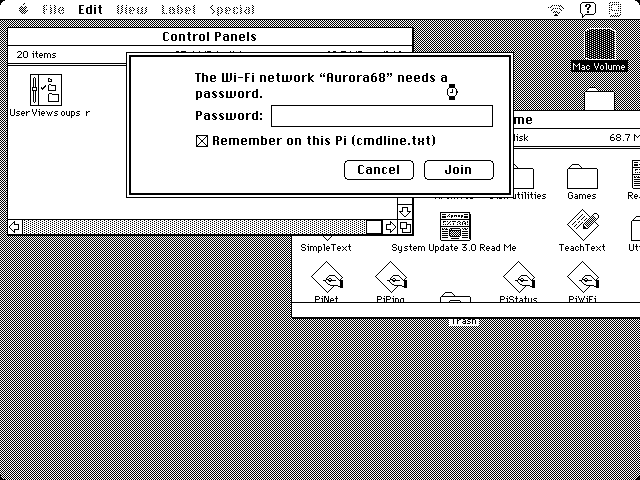
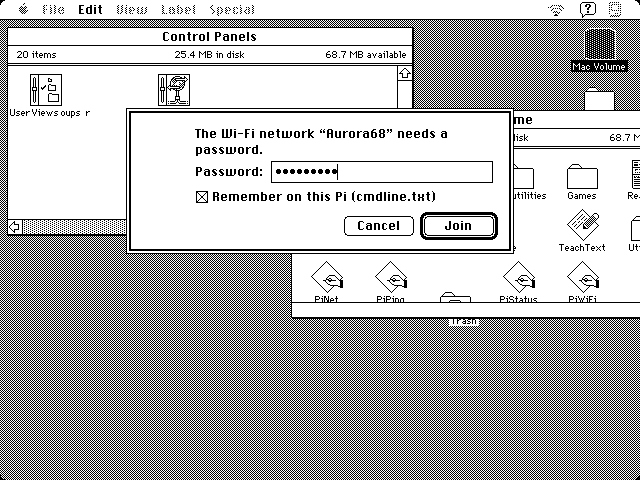
WiFi menu: hangs from the menu bar; the password dialog as the 1992 guidelines say
The pop-up's first item now sits two rows under the bar (one row made
the MDEF push the whole menu down an item). The password dialog has the
default button's outline, Return/Enter and Escape/Command-period with
the buttons flashing, and bullets in place of the password (a
ModalDialog filter keeps the text). tools/pinet.py: PINET_FORWARD and
PINET_MDNS_RELAY relay TCP and mDNS to servers on the host (Lagoon's
tests against Samba).

Changed region(s): [[0.1875, 0.0938, 0.8125, 0.5312]]

diff --git a/tools/pinet.py b/tools/pinet.py
@@ -16,6 +16,15 @@ replies to .rx. Two modes:
                             PINET_MDNS=NAME: every ten seconds an mDNS query for NAME.local
                             (224.0.0.251:5353, from the Mac's own subnet so the responder does
                             not ignore it as off-link); answers are logged as "mDNS answer".
+                            PINET_FORWARD="445=127.0.0.1:4450,548=127.0.0.1:5480": TCP to those
+                            ports of the peer is relayed to the host addresses (the Mac's file
+                            clients, Lagoon, reach servers on the host: Samba, Netatalk), in
+                            order, within the Mac's receive window; the testbed loses nothing,
+                            so nothing is sent again.
+                            PINET_MDNS_RELAY=127.0.0.1:PORT: the Mac's mDNS queries (224.0.0.251:5353)
+                            go to that responder on the host (Lagoon's tests/servers/mdns/
+                            responder.py --addr 192.168.68.1) and its answers come back to the Mac
+                            from the peer, as a legacy unicast answer (RFC 6762 6.7).
   pinet.py <base> tap tapN  bridge frames to a Linux TAP device (needs CAP_NET_ADMIN)
 
 Usage in the testbed: tools/run-fullstack.sh 400 mac.net=/tmp/psmac-net   (and run this helper).
@@ -86,11 +95,35 @@ def mdns_due():
     send(bytes.fromhex('01005e0000fb') + PEER_MAC + b'\x08\x00' + bytes(ip) + udp)
     print(f"peer -> mDNS query {MDNS_NAME}.local from {'.'.join(map(str, src_ip))}", flush=True)
 
+MDNS_RELAY = None
+if os.environ.get('PINET_MDNS_RELAY'):
+    h, p_ = os.environ['PINET_MDNS_RELAY'].rsplit(':', 1)
+    MDNS_RELAY = (h, int(p_))
+def mdns_relay(src, sip, udp):
+    sport = struct.unpack('>H', udp[0:2])[0]
+    q = udp[8:]
+    if len(q) < 12 or q[2] & 0x80:
+        return None                                  # an answer, not a query
+    s_ = socket.socket(socket.AF_INET, socket.SOCK_DGRAM); s_.settimeout(0.5)
+    try:
+        s_.sendto(q, MDNS_RELAY)
+        ans, _ = s_.recvfrom(9000)
+    except OSError:
+        return 'mDNS query: no answer from the relay'
+    finally:
+        s_.close()
+    out = struct.pack('>HHHH', 5353, sport, 8 + len(ans), 0) + ans
+    send4(src, sip, 17, out)
+    return f'mDNS query relayed: {len(ans)}-byte answer to port {sport}'
+
 def peer(frame):
     global mac_ip4
     dst, src, etype = frame[0:6], frame[6:12], struct.unpack('>H', frame[12:14])[0]
     if etype == 0x0800 and len(frame) >= 42 and frame[23] == 17 and frame[14 + (frame[14] & 15) * 4 + 2:14 + (frame[14] & 15) * 4 + 4] == b'\x14\xe9':
         if frame[26:30] != bytes(4): mac_ip4 = frame[26:30]
+        if MDNS_RELAY:
+            r = mdns_relay(src, frame[26:30], frame[14 + (frame[14] & 15) * 4:])
+            if r: return r
         return mdns_answer(src, frame[26:30], frame[14 + (frame[14] & 15) * 4:])
     if etype == 0x0800 and len(frame) >= 34 and frame[26:30] != bytes(4): mac_ip4 = frame[26:30]
     if etype == 0x0806 and len(frame) >= 42:                 # ARP
@@ -168,10 +201,91 @@ def tcp_seg(dstmac, dip, sport, dport, seq, ack, flags, data=b''):
     c = csum(pseudo + hdr + data)
     send4(dstmac, dip, 6, hdr[:16] + struct.pack('>H', c) + hdr[18:] + data)
 
+# TCP relay (PINET_FORWARD): one host socket per connection from the Mac
+FORWARD = {}
+for item in filter(None, os.environ.get('PINET_FORWARD', '').split(',')):
+    port, dest = item.split('=')
+    h, hp = dest.rsplit(':', 1)
+    FORWARD[int(port)] = (h, int(hp))
+relays = {}
+def relay_seg(r, flags, data=b''):
+    tcp_seg(r['mac'], r['ip'], r['lport'], r['rport'], r['snd'], r['rcv'], flags, data)
+def relay_tcp(frame, src, sip, t, sport, dport, seq, ack, flags, data, win):
+    key = (sip, sport, dport)
+    if flags & 0x02:                                               # SYN: connect to the host
+        try:
+            hs = socket.create_connection(FORWARD[dport], timeout=3)
+        except OSError as e:
+            tcp_seg(src, sip, dport, sport, 0, seq + 1, 0x14)
+            return f'TCP relay {dport}: host refused ({e})'
+        hs.setblocking(False)
+        relays[key] = {'sock': hs, 'mac': src, 'ip': sip, 'lport': dport, 'rport': sport, 'snd': 0x68100001,
+                       'una': 0x68100001, 'rcv': seq + 1, 'win': win, 'out': b'', 'fin_out': False, 'fin_sent': False}
+        tcp_seg(src, sip, dport, sport, 0x68100000, seq + 1, 0x12)
+        return f'TCP relay {dport} -> {FORWARD[dport][0]}:{FORWARD[dport][1]}: SYN-ACK'
+    r = relays.get(key)
+    if not r:
+        if not flags & 0x04:
+            tcp_seg(src, sip, dport, sport, 0, seq + 1, 0x14)
+        return 'TCP relay (no connection)'
+    if flags & 0x04:
+        r['sock'].close(); relays.pop(key, None); return 'TCP relay RST'
+    if flags & 0x10 and (ack - r['una']) & 0x80000000 == 0:
+        r['una'] = ack
+    r['win'] = win
+    what = 'TCP relay ack'
+    if data:
+        if seq == r['rcv']:
+            r['rcv'] += len(data)
+            try:
+                r['sock'].sendall(data)
+            except OSError:
+                pass
+            relay_seg(r, 0x10)
+            what = f'TCP relay {len(data)} bytes to the host'
+        else:
+            relay_seg(r, 0x10)                                     # out of order: ack what we have
+    if flags & 0x01 and seq + len(data) == r['rcv']:
+        r['rcv'] += 1
+        try:
+            r['sock'].shutdown(socket.SHUT_WR)
+        except OSError:
+            pass
+        relay_seg(r, 0x10)
+        what += ', FIN'
+    return what
+def relay_due():
+    for key, r in list(relays.items()):
+        if not r['fin_out']:
+            try:
+                d = r['sock'].recv(65536)
+                if d:
+                    r['out'] += d
+                else:
+                    r['fin_out'] = True
+            except BlockingIOError:
+                pass
+            except OSError:
+                r['fin_out'] = True
+        inflight = (r['snd'] - r['una']) & 0xffffffff
+        room = max(0, r['win'] - inflight)
+        while r['out'] and room > 0:
+            n = min(1400, room, len(r['out']))
+            relay_seg(r, 0x18, r['out'][:n])
+            r['snd'] += n; r['out'] = r['out'][n:]; room -= n
+        if r['fin_out'] and not r['out'] and not r['fin_sent']:
+            relay_seg(r, 0x11)
+            r['snd'] += 1; r['fin_sent'] = True
+        if r['fin_sent'] and r['una'] == r['snd'] and r['rcv'] and key in relays and r.get('closed_in'):
+            r['sock'].close(); relays.pop(key, None)
+
 def tcp_echo(frame, src, sip, t):
     sport, dport, seq, ack, off, flags = struct.unpack('>HHIIBB', t[:14])
     ip_total = struct.unpack('>H', frame[16:18])[0]
     data = t[(off >> 4) * 4:ip_total - 20]
+    if dport in FORWARD:
+        win = struct.unpack('>H', t[14:16])[0]
+        return relay_tcp(frame, src, sip, t, sport, dport, seq, ack, flags, data, win)
     if dport != 7:
         if not flags & 0x04:
             tcp_seg(src, sip, dport, sport, 0, seq + 1, 0x14)      # RST|ACK
@@ -311,6 +425,7 @@ while True:
     if tap is None:
         ping6_due()
         mdns_due()
+        relay_due()
     if tap is not None:
         try:
             while True:

diff --git a/mac/wifimenu/wifimenu.c b/mac/wifimenu/wifimenu.c
@@ -231,6 +231,64 @@ static void put_item(unsigned char **p, short t, short l, short b, short r, unsi
 	if (n & 1) *q++ = 0;
 	*p = q;
 }
+/* The 1992 Human Interface Guidelines: the default button (Join) has the heavy rounded outline and
+   answers Return and Enter, Cancel answers Escape and Command-period, both buttons flash when
+   their key is used, and a password is shown as bullets (the field gets a bullet for each key;
+   the password itself is kept here). Clicks inside the field are ignored so typing always goes
+   to its end, and Command keys are not passed on (no pasting of text the bullets would hide). */
+void pas_useritem(void), pas_dlgfilter(void);
+static char hidden[64];
+static int hidden_n;
+void c_useritem(void *dlg, int item)
+{
+	short kind;
+	void *h;
+	Rect box;
+	GetDItem(dlg, item, &kind, &h, &box);
+	PenSize(3, 3);
+	FrameRoundRect(&box, 16, 16);
+	PenNormal();
+}
+static void flash(void *dlg, int item)
+{
+	short kind;
+	void *h;
+	Rect box;
+	GetDItem(dlg, item, &kind, &h, &box);
+	HiliteControl(h, 1);
+	unsigned long t = LM_TICKS + 8;
+	while (LM_TICKS < t) ;
+	HiliteControl(h, 0);
+}
+int c_dlgfilter(void *dlg, EventRecord *ev, short *item)
+{
+	if (ev->what == mouseDown) {
+		short kind;
+		void *h;
+		Rect box;
+		Point pt = ev->where;
+		void *save;
+		GetPort(&save);
+		SetPort(dlg);
+		GlobalToLocal(&pt);
+		SetPort(save);
+		GetDItem(dlg, 4, &kind, &h, &box);
+		if (pt.v >= box.top && pt.v < box.bottom && pt.h >= box.left && pt.h < box.right) ev->what = nullEvent;
+		return 0;
+	}
+	if (ev->what != keyDown && ev->what != autoKey) return 0;
+	unsigned char c = (unsigned char)(ev->message & 0xFF);
+	if (c == 0x0D || c == 0x03) { flash(dlg, 1); *item = 1; return 1; }
+	if (c == 0x1B || ((ev->modifiers & cmdKey) && c == '.')) { flash(dlg, 2); *item = 2; return 1; }
+	if (ev->modifiers & cmdKey) { ev->what = nullEvent; return 0; }
+	if (c == 0x08) { if (hidden_n) hidden_n--; return 0; }
+	if (c < 0x20 || c == 0x7F) { ev->what = nullEvent; return 0; }       /* tab, arrows: nothing */
+	if (hidden_n >= 63) { ev->what = nullEvent; return 0; }
+	hidden[hidden_n++] = (char)c;
+	ev->message = (ev->message & ~0xFFL) | 0xA5;                         /* a bullet in the field */
+	return 0;
+}
+
 static int ask_password(const char *ssid, char *pass, int *remember)
 {
 	char prompt[96];
@@ -239,46 +297,47 @@ static int ask_password(const char *ssid, char *pass, int *remember)
 	add(&p, ssid);
 	add(&p, "\xD3 needs a password.");
 	*p = 0;
-	void **items = mac_newhandle(400);
+	void **items = mac_newhandle(420);
 	if (!items) return 0;
 	unsigned char *q = (unsigned char *)*items;
-	*q++ = 0; *q++ = 5;                            /* six items */
+	*q++ = 0; *q++ = 6;                            /* seven items */
 	put_item(&q, 100, 290, 120, 360, 4, "Join");
 	put_item(&q, 100, 210, 120, 280, 4, "Cancel");
 	put_item(&q, 10, 60, 42, 360, 8 | 0x80, prompt);
 	put_item(&q, 48, 140, 64, 356, 16, "");
 	put_item(&q, 72, 60, 90, 360, 5, "Remember on this Pi (cmdline.txt)");
 	put_item(&q, 48, 60, 64, 136, 8 | 0x80, "Password:");
+	put_item(&q, 96, 286, 124, 364, 0 | 0x80, "");   /* the default button's outline */
 	void *wm;
 	GetWMgrPort(&wm);
 	Rect *pr = PORT_RECT(wm);
 	Rect r;
 	r.left = (short)((pr->right - 372) / 2); r.right = r.left + 372;
-	r.top = 60; r.bottom = r.top + 130;
+	r.top = (short)((pr->bottom - 130) / 3); r.bottom = r.top + 130;   /* the guidelines' alert position */
 	unsigned char title[2] = { 0, 0 };
 	void *dlg = (void *)NewDialog(0, &r, title, 1, 1, (void *)-1L, 0, 0, items);
 	if (!dlg) return 0;
 	short kind, hit = 0;
 	void *h;
 	Rect box;
+	GetDItem(dlg, 7, &kind, &h, &box);
+	SetDItem(dlg, 7, kind, (void *)pas_useritem, &box);
 	GetDItem(dlg, 5, &kind, &h, &box);
 	SetCtlValue(h, 1);
 	SelIText(dlg, 4, 0, 32767);
+	hidden_n = 0;
 	for (;;) {
-		ModalDialog(0, &hit);
+		ModalDialog((void *)pas_dlgfilter, &hit);
 		if (hit == 1 || hit == 2) break;
 		if (hit == 5) { GetDItem(dlg, 5, &kind, &h, &box); SetCtlValue(h, !GetCtlValue(h)); }
 	}
-	unsigned char s[256];
-	GetDItem(dlg, 4, &kind, &h, &box);
-	GetIText(h, s);
 	GetDItem(dlg, 5, &kind, &h, &box);
 	*remember = GetCtlValue(h);
 	DisposDialog(dlg);
-	if (hit != 1) return 0;
-	int n = s[0] > 63 ? 63 : s[0];
-	for (int i = 0; i < n; i++) pass[i] = (char)s[i + 1];
-	pass[n] = 0;
+	if (hit != 1) { for (int i = 0; i < 64; i++) hidden[i] = 0; return 0; }
+	for (int i = 0; i < hidden_n; i++) pass[i] = hidden[i];
+	pass[hidden_n] = 0;
+	for (int i = 0; i < 64; i++) hidden[i] = 0;
 	return 1;
 }
 
@@ -401,7 +460,10 @@ static int c_menuselect(long pt)
 	InsertMenu(m, -1);
 	PROBE("wm: after InsertMenu");
 	InvertRect(&icon_r);
-	long r = PopUpMenuSelect(m, LM_MBARHEIGHT + 1, icon_r.left - 4, 1);
+	/* item 1's top two rows below the bar: the frame then starts on the row under the bar's line.
+	   With one row (MBarHeight + 1) the MDEF found the frame touching the menu bar and moved the
+	   whole menu down by an item, leaving a gap of the desktop between bar and menu. */
+	long r = PopUpMenuSelect(m, LM_MBARHEIGHT + 2, icon_r.left - 4, 1);
 	PROBE("wm: after popup");
 	DeleteMenu(MENU_ID);
 	PROBE("wm: after DeleteMenu");

diff --git a/docs/08-emu68-port-status.md b/docs/08-emu68-port-status.md
@@ -845,8 +845,16 @@ WiFi first; docs/12 orders the bring-up and supersedes the hardware items below.
    Tested in QEMU with `mac.wifisim=` and an SD card image (`CARD=`): the scan list, the password
    dialog, the join, a solid icon once connected, and cmdline.txt on the card, one line, the old
    options kept and `wifi.ssid="Aurora68" wifi.psk="pistorm68"` added
-   (`docs/img/wifi-menu.png`, `docs/img/wifi-menu-password.png`). The password field shows what
-   is typed, and Join is not drawn as the default button (Return still joins).
+   (`docs/img/wifi-menu.png`, `docs/img/wifi-menu-password.png`).
+
+   Two corrections, as the user asked that Mac programs follow the Human Interface Guidelines
+   (1992):
+   - The menu stood a full item below the menu bar. PopUpMenuSelect's MDEF found the frame of a
+     menu whose first item was at MBarHeight + 1 touching the bar, and moved it down by an item.
+     At MBarHeight + 2 it hangs from the bar.
+   - The password dialog now has the default button's heavy rounded outline (a user item). A
+     ModalDialog filter makes Return and Enter Join, Escape and Command-period Cancel, with the
+     button flashing. The filter shows a bullet for each key typed and keeps the password itself.
 
 45. **mDNS on the Mac, and PC keyboards (18 November).** The user's `ping macse.local` got no
    answer. Riptide's mDNS responder starts off, and the Amiga glue turns it on, but the Mac

diff --git a/docs/09-mac-side.md b/docs/09-mac-side.md
@@ -158,7 +158,7 @@ of the menu bar, left of the Help menu, on System 7. The icon shows the signal (
 arcs), the dot alone while not connected, faint arcs when the radio is off. A press on it lists
 the networks around with their signal and "(open)" for unsecured ones, ticks the one in use,
 switches the radio on or off, looks again, disconnects, and forgets the network saved on the Pi.
-Choosing a secured network asks for its password. With "Remember on this Pi" ticked, the kernel
+Choosing a secured network asks for its password (shown as bullets; Return joins, Escape cancels). With "Remember on this Pi" ticked, the kernel
 writes `wifi.ssid=` and `wifi.psk=` into cmdline.txt on the Pi's card once the join has worked, so
 the next power-on joins by itself. The rest of cmdline.txt is kept (docs/08 items 43 and 44).
 
